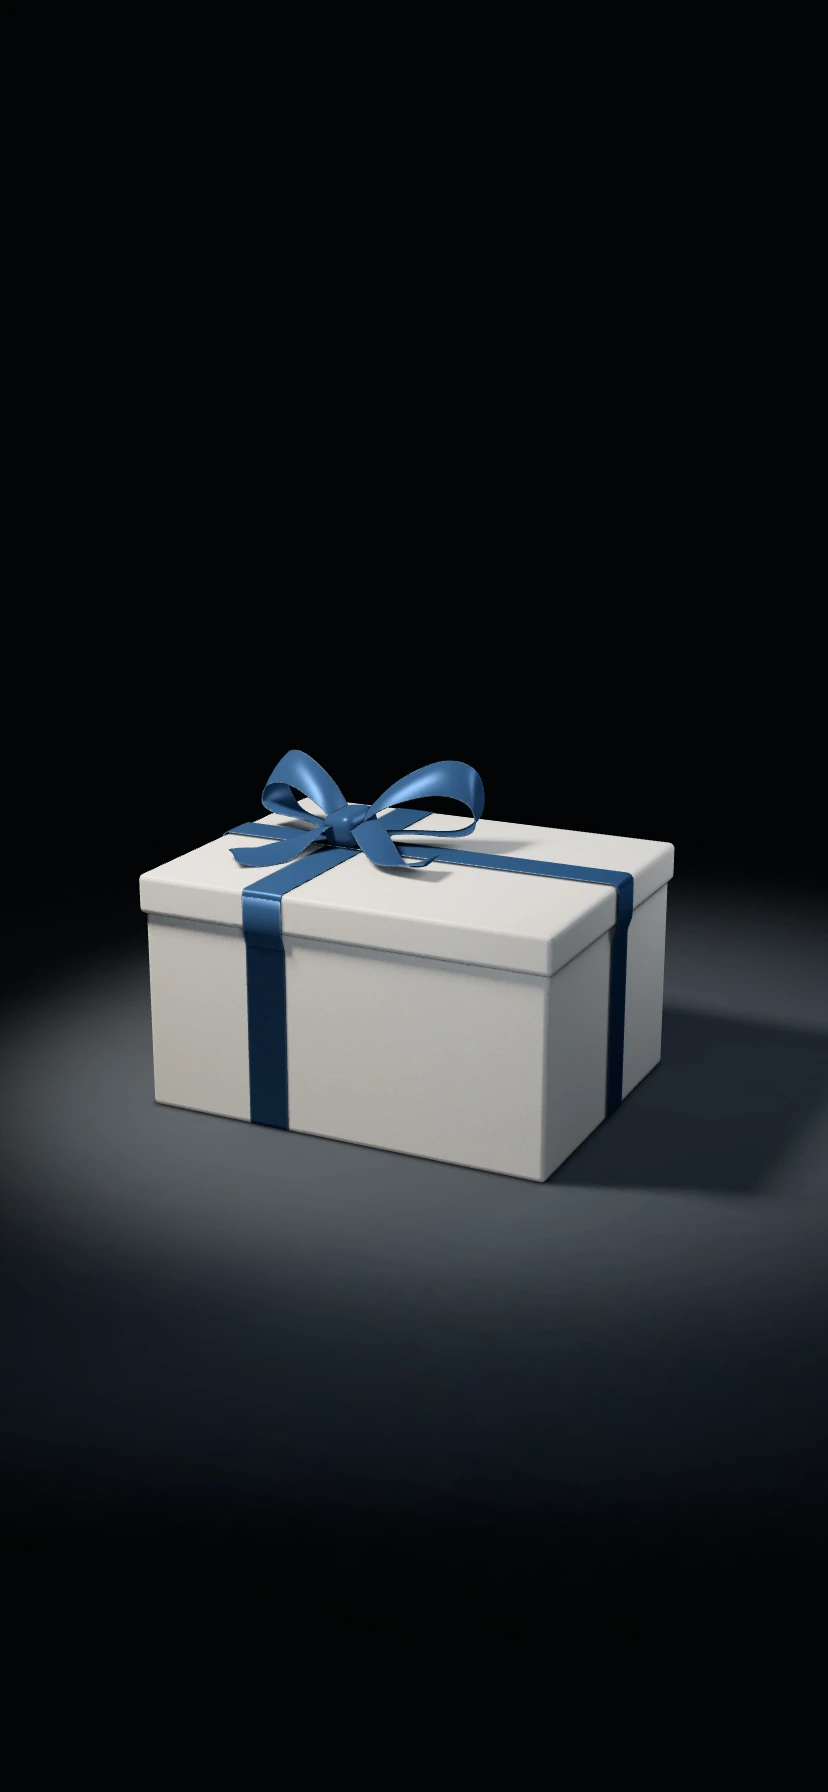
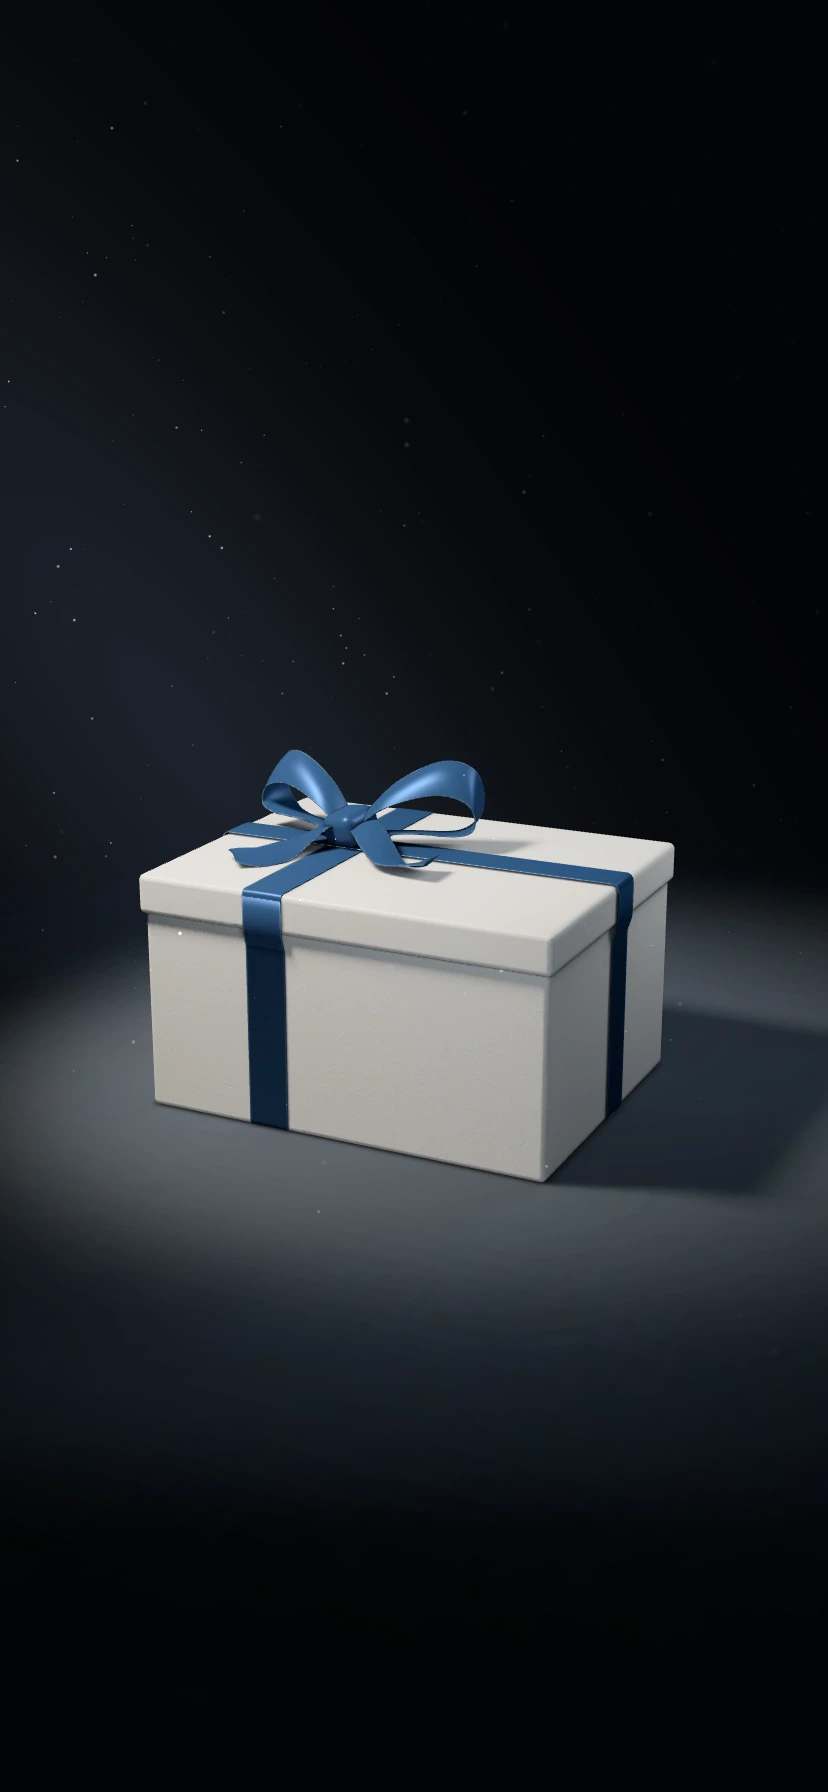
feat: 为礼盒场景加入斜光与漂浮微尘

Changed region(s): [[0.0, 0.1875, 0.4831, 0.5312]]

diff --git a/gift/camera.js b/gift/camera.js
@@ -4,6 +4,10 @@ const project = `
   uniform vec3 eye, right, up, forward;
   uniform vec2 lens;
 `;
+// Cross-section of the softbox beam, in metres relative to its centre line.
+const beam = `
+  vec2 beamOffset(vec3 p) { return p.xy + vec2(.51,.31)*p.z; }
+`;
 const modelVertex = `
   attribute vec3 position, normal;
   attribute float material;
@@ -60,13 +64,60 @@ const stageFragment = `
   uniform sampler2D lightmap;
   uniform vec3 eye;
   varying vec3 direction;
+  ${beam}
   void main() {
     float distance = direction.z < -.001 ? -eye.z/direction.z : 100000.;
     vec2 xy = eye.xy + distance*direction.xy;
     vec3 floorLight = texture2D(lightmap, clamp(xy/24.+.5,0.,1.)).rgb;
     float footprint = 1.-smoothstep(8.,11.9,max(abs(xy.x),abs(xy.y)));
     vec3 color = max(vec3(.011,.014,.019), floorLight*footprint);
+    // Closest approach of this view ray to the lit air above the floor.
+    vec3 origin = vec3(beamOffset(eye)/vec2(2.7,2.2), (eye.z-3.)/5.2);
+    vec3 ray = vec3(beamOffset(direction)/vec2(2.7,2.2), direction.z/5.2);
+    float along = -dot(origin,ray)/dot(ray,ray);
+    vec3 offset = origin + ray*along;
+    float haze = exp(-dot(offset,offset)) * smoothstep(0.,3.,along)
+               * smoothstep(-2.5,2.5,distance-along);
+    color += vec3(.095,.115,.143)*haze;
     gl_FragColor = vec4(color,1.);
+  }
+`;
+
+const dustVertex = `
+  attribute vec4 mote;
+  uniform float seconds, pixelLens;
+  varying mediump vec3 tint;
+  varying mediump float intensity, softness;
+  ${project}
+  ${beam}
+  void main() {
+    float seed = mote.w, phase = seed*58.;
+    float drift = seconds*(.11 + seed*.12);
+    vec3 p = mote.xyz + vec3(.24*sin(drift+phase), .16*cos(.81*drift+phase),
+                              .19*sin(.68*drift+phase*2.));
+    vec3 delta = p-eye;
+    float depth = dot(delta,forward);
+    gl_Position = vec4(dot(delta,right)*lens.x, dot(delta,up)*lens.y,
+                       1.002*depth-.1001, depth);
+    float defocus = smoothstep(2.,8.,abs(depth-15.));
+    float size = mix(.012,.036,seed*seed) * (1.+1.8*defocus);
+    gl_PointSize = clamp(size*pixelLens/max(.1,depth),1.3,12.);
+    vec2 offset = beamOffset(p)/vec2(2.7,2.2);
+    float lit = exp(-.65*dot(offset,offset));
+    intensity = (.032 + .83*lit) * mix(.48,1.,seed) * (1.-.47*defocus);
+    softness = mix(2.3,4.2,defocus);
+    tint = mix(vec3(.64,.77,.94),vec3(1.,.91,.76),lit*.8);
+  }
+`;
+const dustFragment = `
+  precision mediump float;
+  varying vec3 tint;
+  varying float intensity, softness;
+  void main() {
+    vec2 offset = gl_PointCoord*2.-1.;
+    float r2 = dot(offset,offset);
+    float glow = exp(-softness*r2)*(1.-smoothstep(.45,1.,r2));
+    gl_FragColor = vec4(tint,glow*intensity);
   }
 `;
 
@@ -124,6 +175,9 @@ async function prepare(gl) {
   if (gl.isContextLost()) return;
   const model = program(gl,modelVertex,modelFragment,["position","normal","material","uv"]);
   const stage = program(gl,stageVertex,stageFragment,["corner"]);
+  const dust = program(gl,dustVertex,dustFragment,["mote"]);
+  const seconds = gl.getUniformLocation(dust.handle,"seconds");
+  const pixelLens = gl.getUniformLocation(dust.handle,"pixelLens");
   function buffer(type, data) {
     const handle = gl.createBuffer();
     gl.bindBuffer(type,handle);
@@ -146,12 +200,25 @@ async function prepare(gl) {
   const corners = buffer(gl.ARRAY_BUFFER,new Float32Array([-1,-1,3,-1,-1,3]));
   const vertices = buffer(gl.ARRAY_BUFFER,new Uint8Array(mesh,8,vertexCount*16));
   const modelIndices = buffer(gl.ELEMENT_ARRAY_BUFFER,new Uint16Array(mesh,8+vertexCount*16,indexCount));
+  // Repeatable positions keep the still posters and the live scene in register.
+  let seed = 4583;
+  function random() {
+    seed = (Math.imul(1664525,seed)+1013904223) >>> 0;
+    return seed/4294967296;
+  }
+  const motes = new Float32Array(1050*4);
+  for (let i=0; i<motes.length; i+=4) {
+    motes[i] = (random()-.55)*15;
+    motes[i+1] = (random()-.56)*14;
+    motes[i+2] = .22+random()*8;
+    motes[i+3] = random();
+  }
+  const dustBuffer = buffer(gl.ARRAY_BUFFER,motes);
   const attributes = [
     [model.position,3,gl.SHORT,false,0],[model.normal,3,gl.BYTE,true,6],
     [model.material,1,gl.UNSIGNED_BYTE,false,9],[model.uv,2,gl.UNSIGNED_SHORT,true,10]
   ];
-  // Attribute zero is shared by both passes on some drivers.
-  return function draw(t,w,h) {
+  return function draw(t,w,h,time=0) {
     const {x,y,z,aimZ} = cameraPose(t);
     const distance = Math.hypot(x,y,aimZ-z), groundDistance = Math.hypot(x,y);
     const fx=-x/distance, fy=-y/distance, fz=(aimZ-z)/distance;
@@ -188,6 +255,20 @@ async function prepare(gl) {
     gl.bindTexture(gl.TEXTURE_2D,surfaceMap);
     gl.bindBuffer(gl.ELEMENT_ARRAY_BUFFER,modelIndices);
     gl.drawElements(gl.TRIANGLES,indexCount,gl.UNSIGNED_SHORT,0);
+    for (const [slot] of attributes) gl.disableVertexAttribArray(slot);
+    camera(dust);
+    gl.uniform1f(seconds,time);
+    gl.uniform1f(pixelLens,lensX*w*.5);
+    gl.bindBuffer(gl.ARRAY_BUFFER,dustBuffer);
+    gl.enableVertexAttribArray(dust.mote);
+    gl.vertexAttribPointer(dust.mote,4,gl.FLOAT,false,0,0);
+    gl.enable(gl.BLEND);
+    gl.blendFunc(gl.SRC_ALPHA,gl.ONE);
+    gl.depthMask(false);
+    gl.drawArrays(gl.POINTS,0,motes.length/4);
+    gl.depthMask(true);
+    gl.disable(gl.BLEND);
+    gl.disableVertexAttribArray(dust.mote);
   };
 }
 
@@ -195,13 +276,27 @@ export function setupStudio(canvas, download) {
   const reducedMotion = matchMedia("(prefers-reduced-motion: reduce)");
   let draw, loading, position = 1, visible = false, generation = 0, last = -1;
   let pixelBudget = 1600000, width = 1, height = 1, idleFrame = 0;
-  function paint() {
-    if (!draw || !visible || last === position || reducedMotion.matches) return;
-    draw(position,canvas.width,canvas.height);
+  let dustTimer = 0, dustTime = 0, previousPaint = 0;
+  function paint(animate = false) {
+    if (!draw || !visible || document.hidden || reducedMotion.matches) return;
+    if (!animate && last === position) return;
+    const now = performance.now();
+    if (previousPaint) dustTime += Math.min(.15,(now-previousPaint)/1000);
+    previousPaint = now;
+    draw(position,canvas.width,canvas.height,dustTime);
     canvas.dataset.ready = "";
     last = position;
   }
-  function resize(budget = pixelBudget) {
+  // The descent already supplies frames. Only run a separate clock at rest.
+  function scheduleDust() {
+    clearTimeout(dustTimer);
+    if (!draw || !visible || position !== 1 || document.hidden || reducedMotion.matches) return;
+    dustTimer = setTimeout(()=>{
+      paint(true);
+      scheduleDust();
+    },pixelBudget < 1600000 ? 80 : 40);
+  }
+  function resize(budget = position === 1 ? 1600000 : pixelBudget) {
     const scale = Math.min(devicePixelRatio,2,Math.sqrt(budget/(width*height)));
     canvas.width = Math.max(1,Math.round(width*scale));
     canvas.height = Math.max(1,Math.round(height*scale));
@@ -221,10 +316,12 @@ export function setupStudio(canvas, download) {
     loading = prepare(gl).then(renderer=>{
       if (current !== generation || !renderer) return;
       draw = renderer;
+      if (reducedMotion.matches) return;
       // Prime the driver while the sky is on screen, before the first gesture.
       draw(position,canvas.width,canvas.height);
       canvas.dataset.ready = "";
       last = position;
+      scheduleDust();
     }).catch(error=>console.warn("Gift studio:",error));
   }
   new ResizeObserver(([entry])=>{
@@ -238,6 +335,7 @@ export function setupStudio(canvas, download) {
     event.preventDefault();
     generation++;
     draw = loading = null;
+    scheduleDust();
     last = -1;
     delete canvas.dataset.ready;
   });
@@ -245,11 +343,14 @@ export function setupStudio(canvas, download) {
   reducedMotion.addEventListener("change",()=>{
     if (reducedMotion.matches) delete canvas.dataset.ready;
     else if (visible) { last = -1; warm(); paint(); }
+    scheduleDust();
   });
+  document.addEventListener("visibilitychange",scheduleDust);
   new IntersectionObserver(([entry])=>{
     if (canvas.closest("[data-gift-descent]")) return;
     visible = entry.isIntersecting;
     if (visible) { position = 1; warm(); paint(); }
+    scheduleDust();
   }).observe(canvas);
   return t=>{
     visible = true;
@@ -259,6 +360,7 @@ export function setupStudio(canvas, download) {
     cancelAnimationFrame(idleFrame);
     if (leavingRest && pixelBudget < 1600000) resize();
     else paint();
+    scheduleDust();
     // Software rasterizers use a smaller moving frame, then resolve once at rest.
     if (t === 1 && pixelBudget < 1600000) {
       idleFrame = requestAnimationFrame(()=>{ if (visible && position === 1) resize(1600000); });

diff --git a/index.html b/index.html
@@ -331,7 +331,7 @@
   <link rel="stylesheet" href="deep-focus.css?v=refracted-handoff">
   <link rel="stylesheet" href="download.css?v=sky-meteor">
   <link rel="stylesheet" href="gift.css?v=stagger">
-  <script src="sky.js?v=gift-stagger" type="module"></script>
+  <script src="sky.js?v=gift-dust" type="module"></script>
   <script src="showcase.js?v=device-ink" type="module"></script>
 </head>
 <body>
@@ -551,8 +551,8 @@
     <section class="gift" id="gift" aria-label="Gift" tabindex="-1">
       <div class="gift-night">
         <picture class="gift-studio">
-          <source media="(max-aspect-ratio: 4/5)" srcset="gift/studio-portrait.webp?v=unprinted" width="828" height="1792">
-          <img src="gift/studio.webp?v=unprinted" alt="An ivory FocusFlight gift box tied with a midnight-blue bow, in a pool of light." width="1920" height="1200" decoding="async" loading="lazy">
+          <source media="(max-aspect-ratio: 4/5)" srcset="gift/studio-portrait.webp?v=dust" width="828" height="1792">
+          <img src="gift/studio.webp?v=dust" alt="An ivory FocusFlight gift box tied with a midnight-blue bow, in a pool of light." width="1920" height="1200" decoding="async" loading="lazy">
         </picture>
         <canvas class="gift-camera" aria-hidden="true"></canvas>
       </div>

diff --git a/sky.js b/sky.js
@@ -1,4 +1,4 @@
-import { setupGiftDescent } from "./gift.js?v=stagger";
+import { setupGiftDescent } from "./gift.js?v=dust";
 import { setupWindowFlight } from "./window-flight.js?v=sky-meteor";
 import { setupFocusRipple } from "./focus-ripple.js";
 import { setupPortholeSky } from "./porthole/sky.js?v=ascent";

diff --git a/gift.js b/gift.js
@@ -1,4 +1,4 @@
-import { setupStudio, skyPitch } from "./gift/camera.js?v=unprinted";
+import { setupStudio, skyPitch } from "./gift/camera.js?v=dust";
 import { prepareCopy } from "./motion-copy.js";
 
 export function setupGiftDescent(download, gift, windowFlight, ease) {
